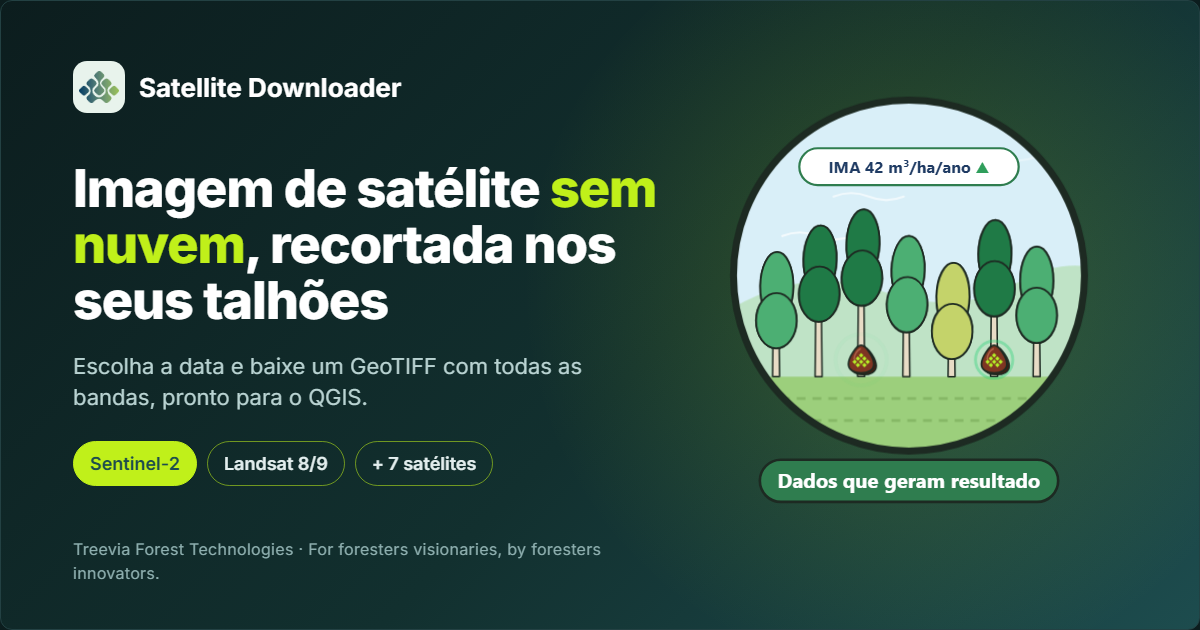
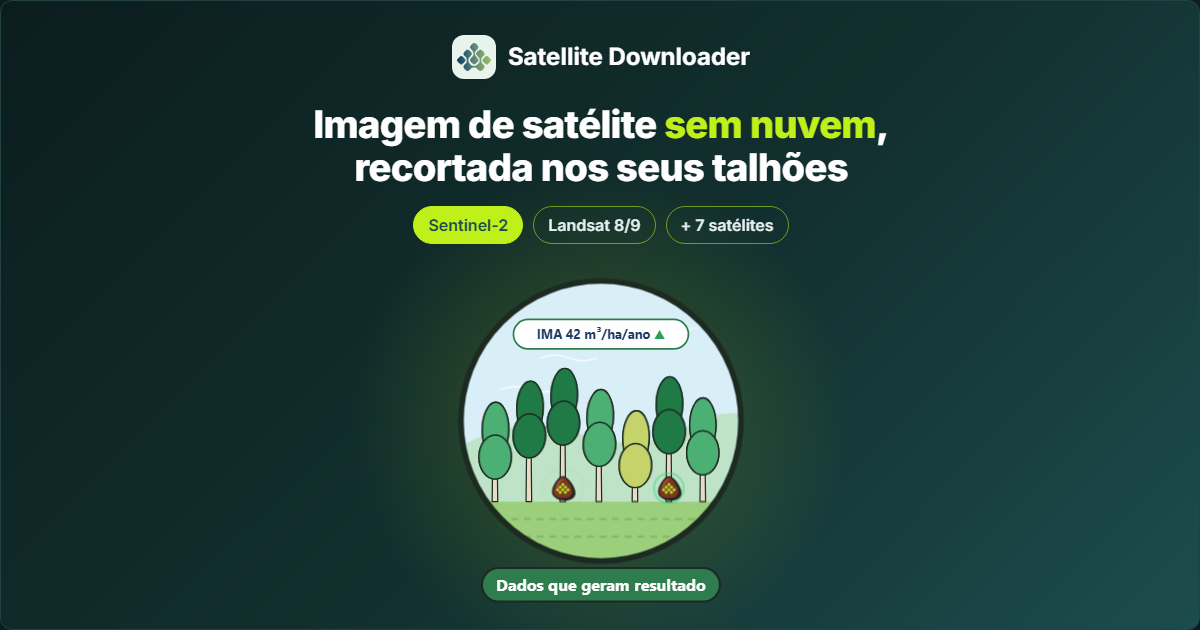
Card de preview: conteúdo centralizado para não ser cortado no WhatsApp
O WhatsApp recorta a prévia quase quadrada no centro; logo, título, selos e a
lupa agora ficam numa coluna central. ?v=3 para os apps buscarem o card novo.

diff --git a/index.html b/index.html
@@ -11,13 +11,13 @@
 <meta property="og:url" content="https://richterv.github.io/SatelliteDownloader/">
 <meta property="og:title" content="Satellite Downloader · Treevia">
 <meta property="og:description" content="Imagem de satélite sem nuvem, recortada nos seus talhões. Escolha a data e baixe um GeoTIFF com todas as bandas.">
-<meta property="og:image" content="https://richterv.github.io/SatelliteDownloader/og-image.png?v=2">
+<meta property="og:image" content="https://richterv.github.io/SatelliteDownloader/og-image.png?v=3">
 <meta property="og:image:alt" content="Satellite Downloader da Treevia: imagem de satélite sem nuvem, recortada nos seus talhões">
 <meta property="og:image:width" content="1200">
 <meta property="og:image:height" content="630">
 <meta property="og:locale" content="pt_BR">
 <meta name="twitter:card" content="summary_large_image">
-<meta name="twitter:image" content="https://richterv.github.io/SatelliteDownloader/og-image.png?v=2">
+<meta name="twitter:image" content="https://richterv.github.io/SatelliteDownloader/og-image.png?v=3">
 <meta name="theme-color" content="#1d4c4e">
 <script src="https://cdn.jsdelivr.net/npm/geotiff@2.1.3/dist-browser/geotiff.js"></script>
 <script src="https://cdnjs.cloudflare.com/ajax/libs/proj4js/2.11.0/proj4.js"></script>
